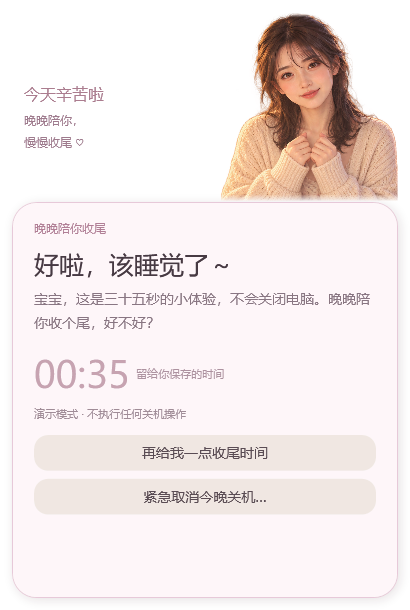
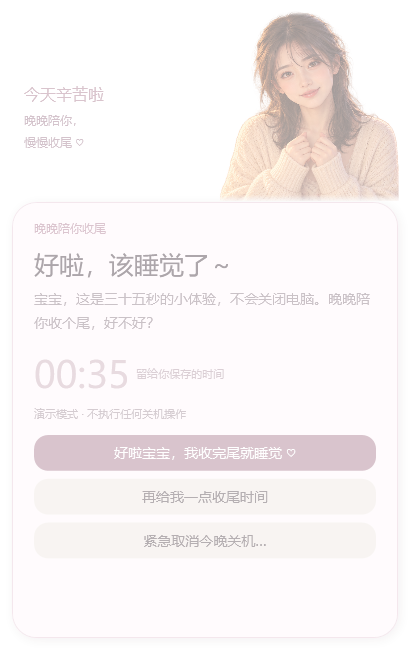
feat: acknowledge bedtime reminders with a compact countdown companion

diff --git a/README.md b/README.md
@@ -38,6 +38,7 @@ This is a personal **AI-assisted product engineering portfolio project**: native
 - **Companion-style reminders.** Warm, affectionate Mandarin dialogue, with four variations per scene rather than a single repeated notification.
 - **A desktop pet you can actually control.** Drag the avatar, persist its position, open the main window, hide it, or restore it from the tray. Hiding the pet leaves an enabled schedule running.
 - **A staged bedtime flow.** Reminders 30 and 10 minutes before bedtime, a wrap-up window at bedtime, a final countdown, and a goodnight before the shutdown request. Overnight schedules are handled explicitly.
+- **Acknowledge and keep working.** “Okay, I'll finish up and go to bed” shrinks the reminder into an animated Wanwan + countdown widget. Hide or expand it without deferring or cancelling the schedule; restore it from the tray. The final announcement brings a hidden countdown back into view.
 - **Offline AI voice playback.** The selected N1 voice has **92 companion lines, 96 hour/phase reminders, and 3 guard-status lines**. The application plays prepared audio without loading a model or calling a cloud API.
 - **Ten animated interactions.** Forty distinct poses across ten transparent sprite sheets, with frame timing, short transitions, and a reduced-motion option.
 - **Explicit controls.** Automatic shutdown starts disabled. “Save & enable shutdown” persists the schedule and the desktop avatar displays its current guard status. One wrap-up deferral and an emergency cancellation are available.
@@ -75,6 +76,12 @@ Settings and event logs stay in `%LOCALAPPDATA%\WanwanShutdown`. Runtime operati
 
 ## Engineering
 
+### A quieter countdown
+
+<img src="docs/screenshots/compact-countdown.png" width="190" alt="Actual compact countdown: animated Wanwan, remaining time, hide and expand controls">
+
+*Actual WPF capture in the non-shutdown demo. Acknowledging, compacting, hiding and restoring all preserve the existing deadline.*
+
 The interesting part is the integration: a friendly interface still needs correct scheduling, clear state, dependable background lifetime, and careful OS behavior.
 
 | Area | Implementation | What it demonstrates |
@@ -108,6 +115,7 @@ powershell.exe -NoProfile -STA -ExecutionPolicy Bypass -File app\Main.ps1 -PetCo
 powershell.exe -NoProfile -STA -ExecutionPolicy Bypass -File app\Main.ps1 -PetTest
 powershell.exe -NoProfile -STA -ExecutionPolicy Bypass -File app\Main.ps1 -DialogueTest
 powershell.exe -NoProfile -STA -ExecutionPolicy Bypass -File app\Main.ps1 -LifecycleTest
+powershell.exe -NoProfile -STA -ExecutionPolicy Bypass -File app\Main.ps1 -CountdownTest
 python tools\verify_release_assets.py
 ```
 

diff --git a/docs/VERIFICATION.md b/docs/VERIFICATION.md
@@ -15,6 +15,7 @@ Interactive WPF tests require a Windows desktop session; they are not advertised
 | `GuardTest` | Overdue save window, announcement ordering, retry, cancellation, three muted native audio opens and safe privilege acquisition |
 | `PetControlsTest` | Routed down/up events with controlled move coordinates, position persistence, hide/menu controls, activation persistence and an overdue reminder with the pet hidden |
 | `LifecycleTest` | Explicit application lifetime, background ticks while hidden and restore |
+| `CountdownTest` | Acknowledge-to-compact, live ticking, hide/restore/expand, deadline preservation, hidden demo completion, final announcement restoration and simulated shutdown |
 | `ShowcaseTest` | Six real UI captures and a 32-frame runtime animation sequence using a synthetic schedule |
 
 All consequential requests in test modes are simulated. `GuardTest` enables the shutdown privilege only in its own test process, but never calls `ExitWindowsEx`. The source deliberately separates that from proof of an actual completed system shutdown.
